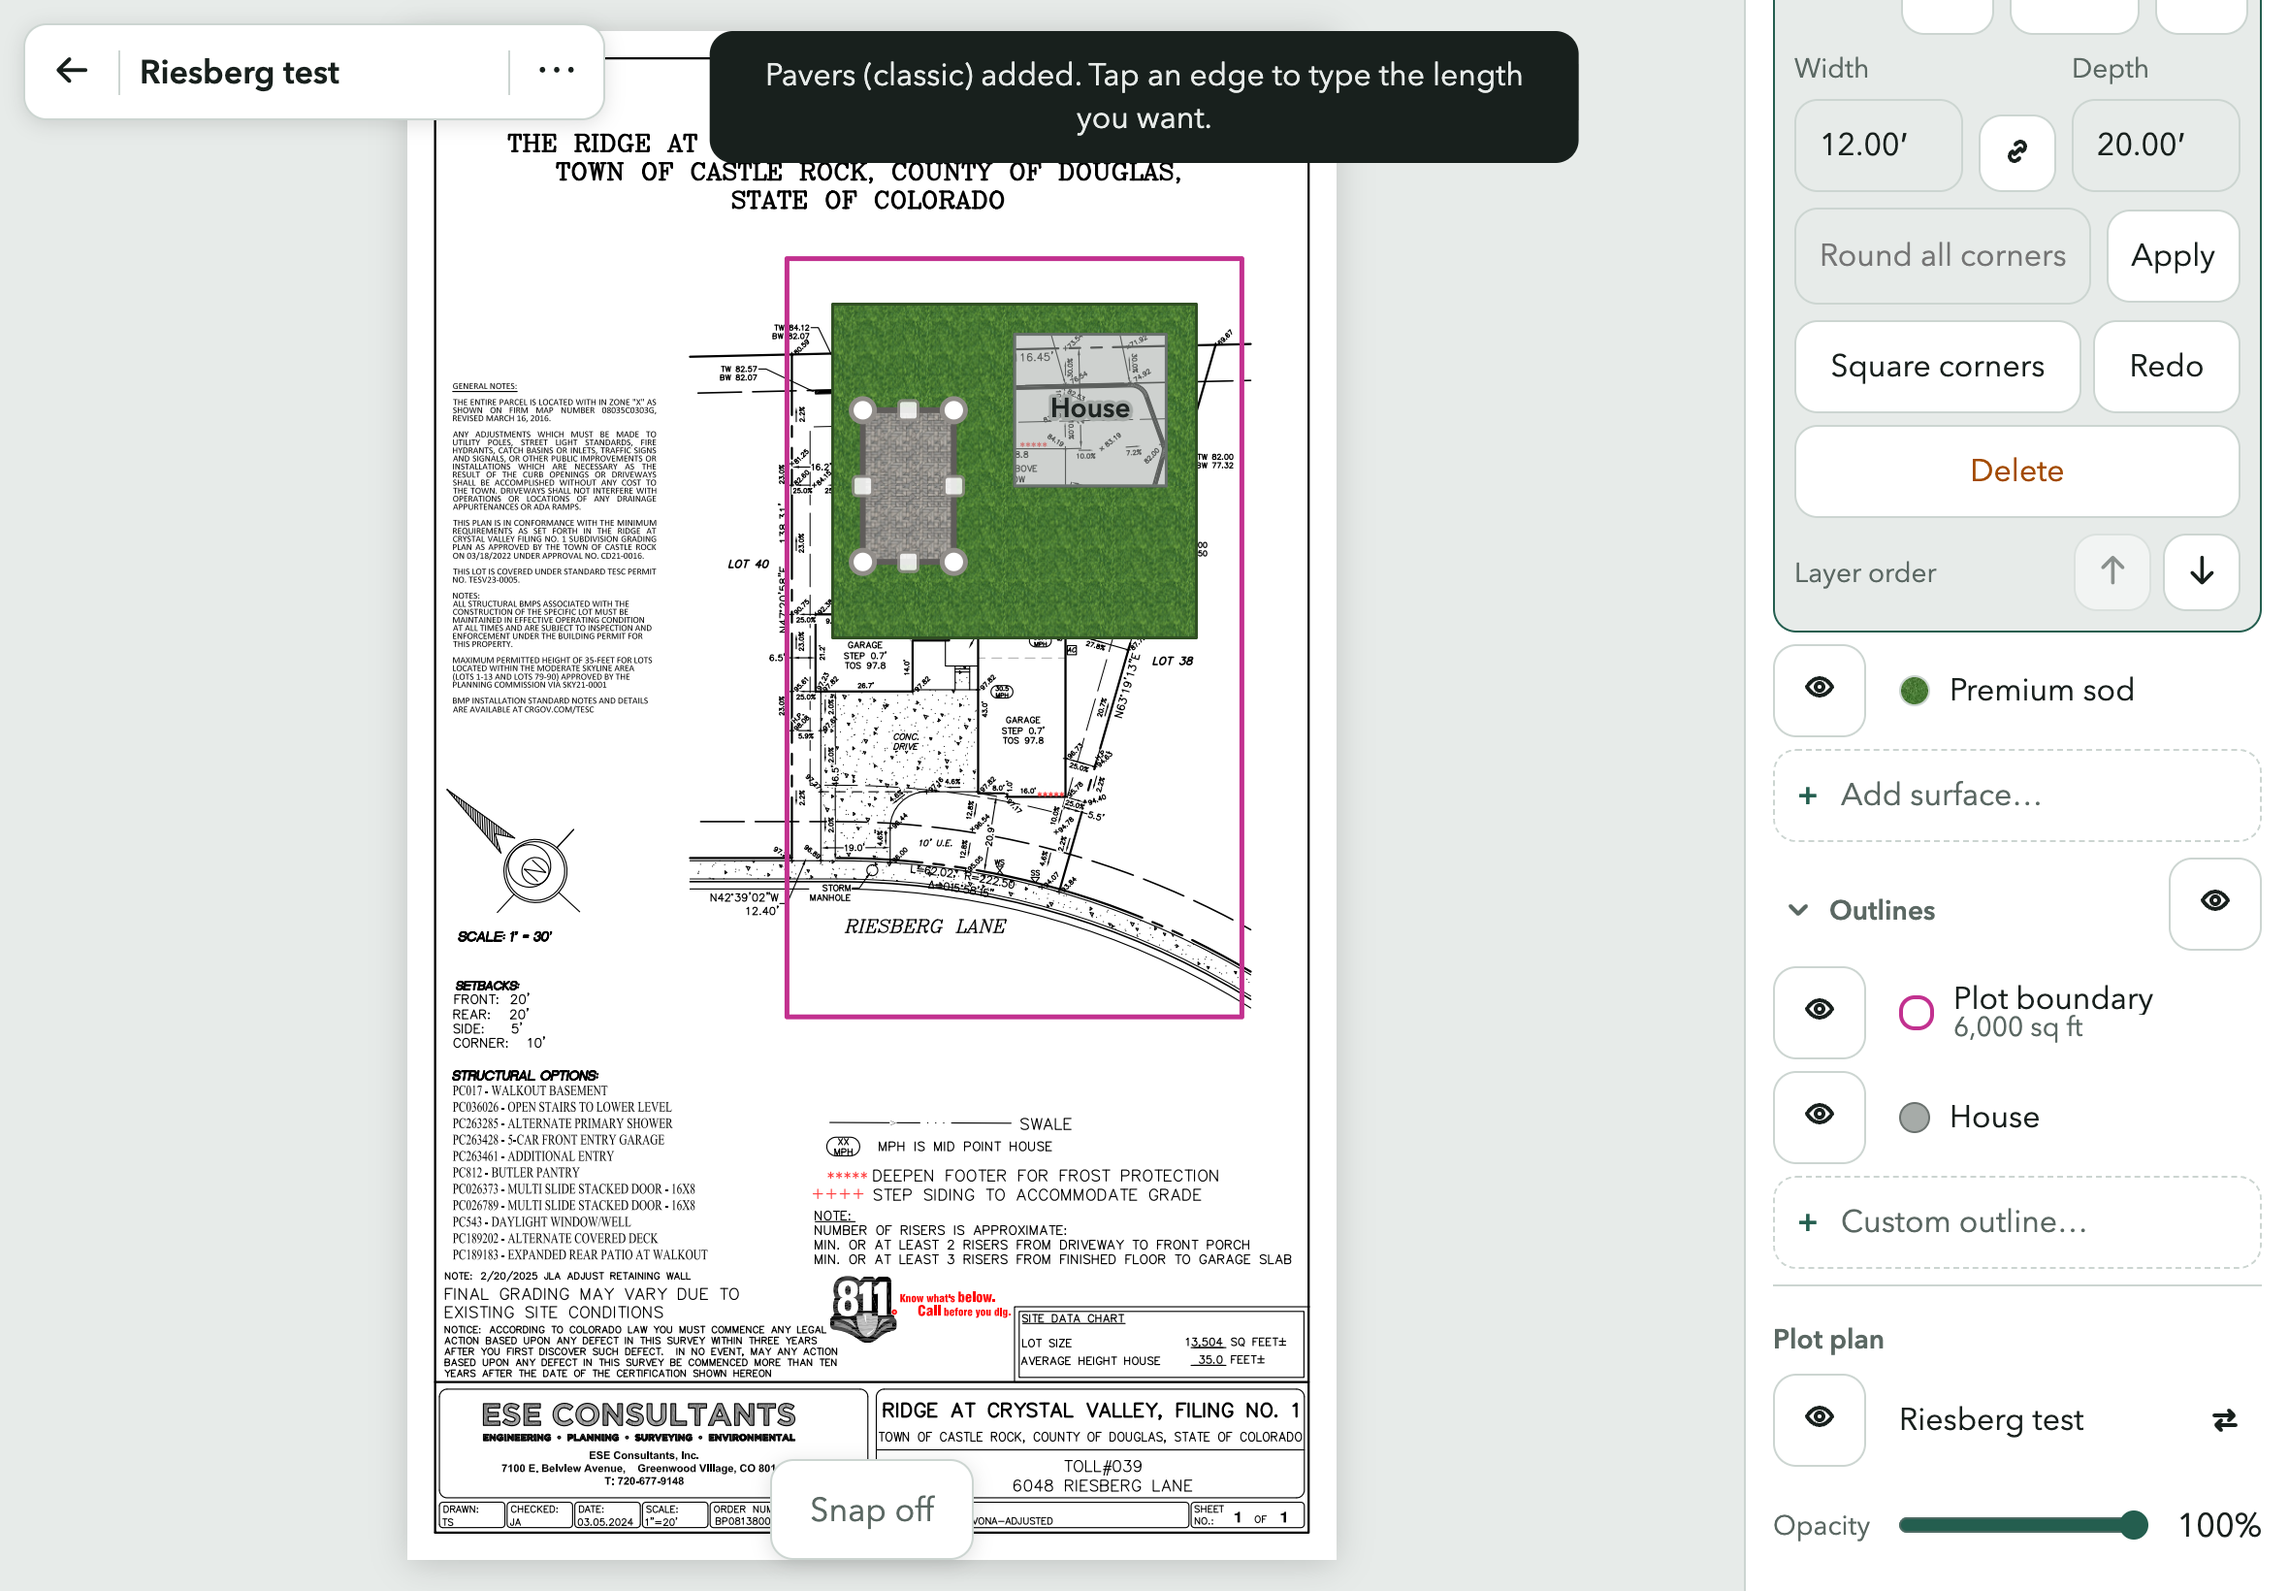
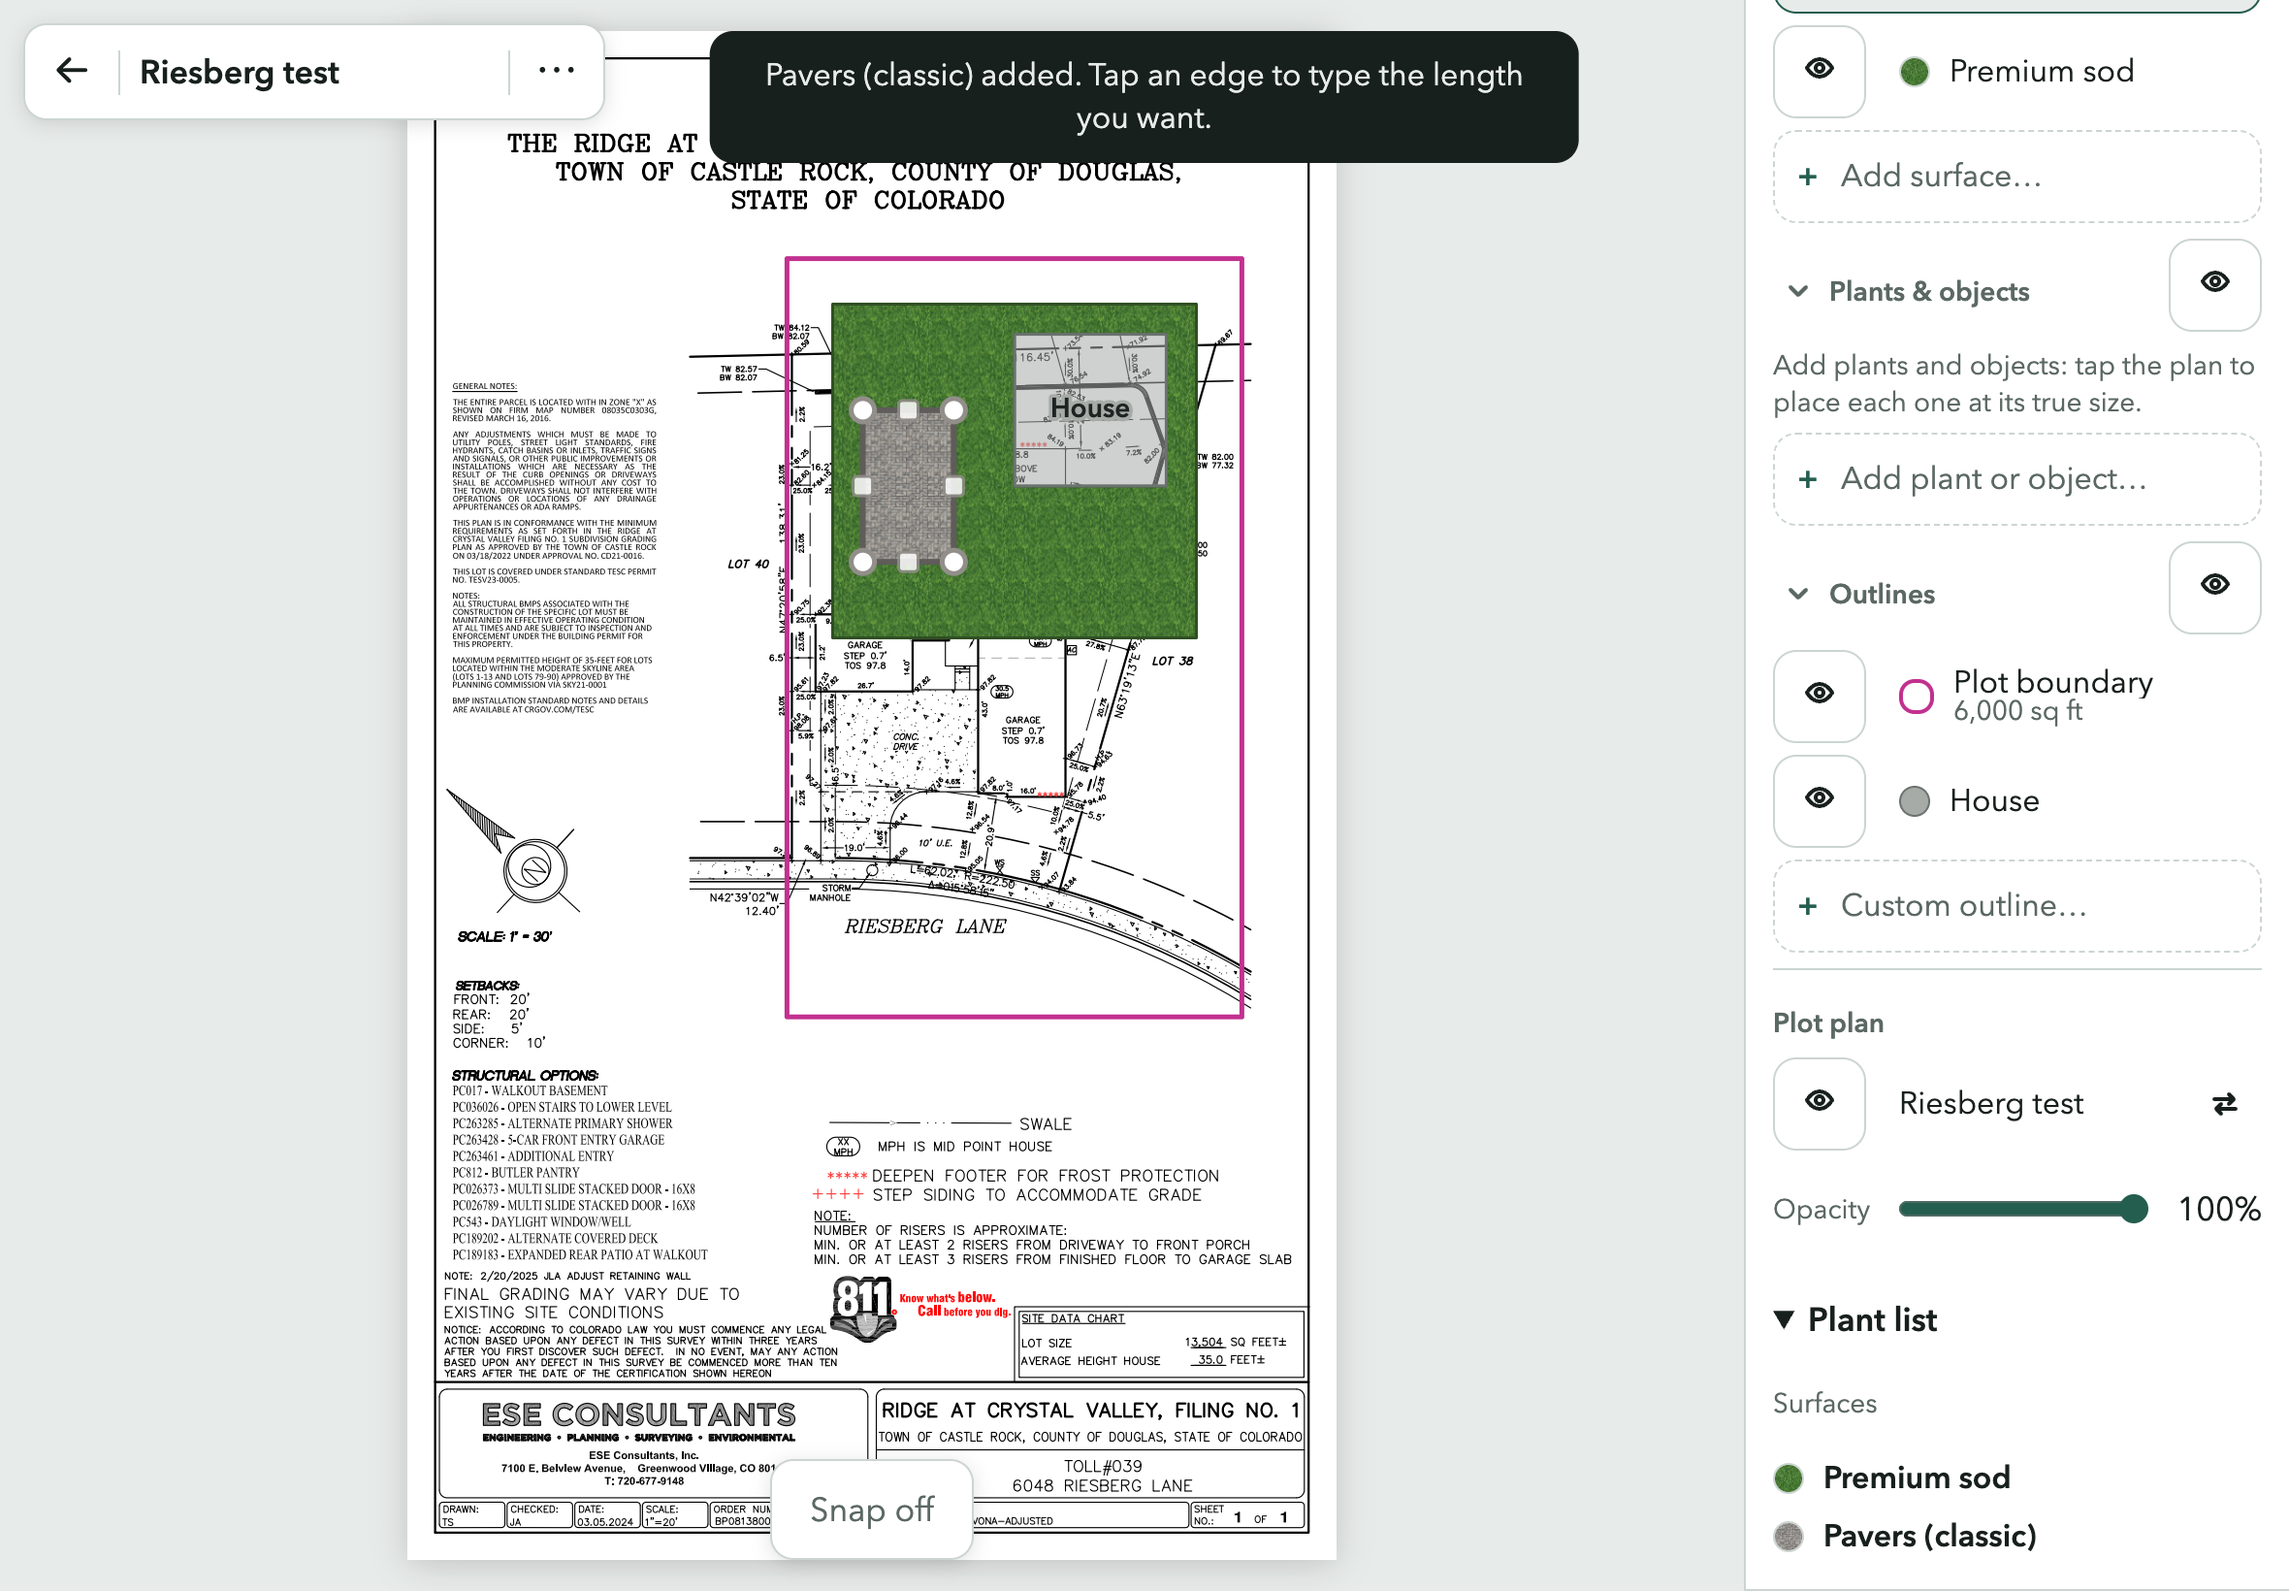
feat(symbols): Playwright check, PRD §6.10 and decision summary

diff --git a/docs/PRD.md b/docs/PRD.md
@@ -39,7 +39,8 @@
 | 3 | Mark existing features (any number, custom names, grey fill + label); house becomes one of them | 🔨 done, in review | `feat/step3-existing-features` |
 | 4 | Surfaces, stage 1: material zones (hardscape + softscape), solid fills, resize by typed edge length | 🔨 done, in review | `feat/material-zones` |
 | 4b | Surfaces stage 2 (Width × Depth in the zone card, optional aspect lock), stage 3 (move one corner) | 🔨 stage 2 done; stage 3 📝 next | `feat/surfaces-width-depth` |
-| 5+ | Plant symbols, objects, edging/walls… | ❓ | — |
+| 5 | Plants & objects (symbols at true mature size) and the Plant list | 🔨 done, in review | `feat/symbols` |
+| 5b | Edging, walls, fences, stepping stones, utility markers (the rest of the library's surfaces) | ❓ | — |
 | 6 | Saved plans + invite-only Google sign-in: many plans per contractor, Firebase sync, works offline | 🔨 in progress | `feat/plans-auth` |
 
 ## 6. Current requirements, by area
@@ -86,7 +87,7 @@
 - 📝 Later calibration methods: trace-the-lot with typed lengths for every edge; reading the printed scale (unreliable: Riesberg prints both 1"=30' and 1"=20'; only 1"=30' is right) — would need OCR, as plan text is often drawn as shapes.
 
 ### 6.4 Library ✅
-- Built-in shared library (the Landscaping symbols set). Plant symbols at **true mature size**. Picker: search + categories. ❓ Mature-spread data per plant.
+- Built-in shared library (the Landscaping symbols set). Plant symbols at **true mature size**. Picker: search + categories. ✅ Mature spread researched per plant with a source (docs/symbol-sizes.md).
 
 ### 6.5 Outputs ✅ (not built)
 - Plan sheet in the style of the Servin example + priced proposal, as a **PDF**.
@@ -125,6 +126,15 @@
 - 🔨 **Width × Depth (stage 2):** a selected zone's card has a **Size** row — **Width** and **Depth** of the zone's bounding box (axis-aligned to the page, true feet), for any zone, not only rectangles; an irregular shape reports its overall extent. Typing one resizes the zone **from the center of that box**, along that axis only; an unreadable entry snaps back. A **lock** between the fields (off by default) scales both axes in proportion. The lock is a session preference, not saved, and turns off when another zone is selected. Curved sides count with their bulge. One undo step per entry. Needs a scale (hidden until one exists). Zones only: outlines' typed lengths set the scale. Not shown while drawing.
 - 📝 Next: **move one corner** as a second resize choice (stage 3). Later: paint-bucket fill between existing lines, quantities (sq ft per material), default lot material, decks/balconies over surfaces.
 
+### 6.10 Plants & objects ✅🔨
+- The library's **51 plants and 14 objects** (families: evergreen, deciduous and accent trees, accent, privacy and large shrubs, perennials, ground covers, ornamental grasses, other). Each has its plan-view art, a photo (plants), a category and a researched size: a plant is a circle of its **typical mature spread**, an object its footprint (long side researched, the other from the art's proportions). Every size has a source and a range in `docs/symbol-sizes.md`; ⚠ marks approximate ones.
+- **Layers → Plants & objects** (between Surfaces and Outlines). **Add plant or object…** opens a list picker with search, then families. Picking one arms placing: **each tap drops one** at its true size until **Done** or Esc; dragging still pans.
+- A placed symbol: tap to select, drag to move, arrow keys nudge, **Rotate** (− / typed angle / +, 15° steps), **Delete**; every change undoes (a drag or a run of nudges is one step). Where symbols overlap, the last placed is on top.
+- **Rows** group by kind ("Blue Diamond Spruce × 3") with an eye per kind and one on the section header (saved with the plan, like the other eyes; hidden symbols still count in the list).
+- Saved with the plan as `symbols` (library id, position, rotation). With no plan scale yet, a symbol is 2.4 page points per foot and still follows zoom.
+- **Plant list** panel under Layers, live: surfaces used (swatch, name), plants (symbol, name, category, quantity, photo), objects (symbol, name, quantity). The water-consumption table is 📝 later.
+- 📝 Later: plant growth over time, quantities with prices, per-symbol size overrides, the water table.
+
 ### 6.9 Plans & sign-in ✅🔨
 - A contractor keeps **many plans, one per job/address**, and opens any of them on any of their devices.
 - **Sign-in:** Google only; required to use the app. **Invite-only:** an `invites/<email>` doc added by hand in the Firebase console; security rules refuse everything else. An un-invited account sees "not invited" and can read or write nothing. No in-app admin, no invite email.
@@ -154,7 +164,7 @@
 - ✅ Saving jobs: Google sign-in, invite-only, Firebase sync, works offline (§6.9)
 - ❓ Multi-page plot plans; edit-name button meaning.
 - ❓ Pilot contractor recruitment; business model; success measure.
-- ❓ Mature-spread data for plant symbols.
+- ✅ Mature-spread data for plant symbols: researched online, each with its source and range, flagged when approximate (docs/symbol-sizes.md).
 
 ---
 
@@ -187,7 +197,7 @@
 
 ## A.5 Domain conventions
 - ✅ Scale convention: **1 px = 1 inch** (= 12 px/ft; matches app default). Plot plans are calibrated to this before drafting (see `landscaping-plan-scale-calibration` skill).
-- 🔍 Symbol library ("Landscaping symbols", Servin; Figma `0B2UpvIGBFOE1ZEDx8rXPR`): ~47 plants, 44 surfaces, 17 objects. Each item has a **measurement class: count | area | linear**.
+- 🔍 Symbol library ("Landscaping symbols", Servin; Figma `0B2UpvIGBFOE1ZEDx8rXPR`): 51 plants, 14 objects and the surfaces (29 area textures, plus linear, point and utility ones). Each item has a **measurement class: count | area | linear**.
 - 🔍 Library names ≠ card titles, and some have typos (`Blue arrrow juniper`, `Perrenials`) — matching must use main-component names.
 - ✅ **Library is source of truth** for materials and measurement type; replaces the 11 hardcoded materials. Measurement class (count/area/linear) decides how each item is measured — no manual Area/Length choice for library items.
 

diff --git a/docs/conversations/2026-10-17-symbols.md b/docs/conversations/2026-10-17-symbols.md
@@ -1,0 +1,14 @@
+# Plan Builder: plant and object symbols (2026-10-17)
+
+## Decisions
+- **Plants and objects together** from the Figma library: 51 plants and 14 objects (the PRD's "~47 / 17" was stale; the Objects section also holds three report variants that are not symbols).
+- **One symbol per tap**; placing stays armed until Done or Esc. Plants and objects can **rotate** (15° steps or a typed angle).
+- **Sizes researched online**, each with a source URL and the range found (`docs/symbol-sizes.md`); 15 are flagged approximate (an assumed cultivar or type, or a drawn length). A plant is a circle of its typical spread. An object keeps its researched long side and takes the other from the Figma art's proportions (the planter is about 4 × 1.7 ft).
+- **Plan art** comes from Figma's 4× renders of each card's plan-view symbol (transparent background made by flood fill, shadow kept as translucent grey); photos are 184 px screenshots; the picker uses 64 px thumbnails so full art loads only when placed.
+- **Plant list in the app** (symbol, name, category, quantity, photo; objects without category and photo; surfaces used). The water-consumption table is left for later.
+- Placed symbols are **saved in the plan** (`symbols`) and share the eyes: a kind's eye and the section's eye, both saved. They are in the undo snapshot; visibility is not undoable.
+- Canonical names: Figma's component, card and title names disagree, so each symbol has one id and name in `scripts/symbol-sources.mjs`, keyed by the card's node id.
+
+## Later
+- Plant growth over time, the water table, edging, walls, fences, stepping stones and utility markers, size overrides per symbol.
+- Higher-resolution plant photos (184 px now), and cleaning the faint hairlines left under a few arts.
